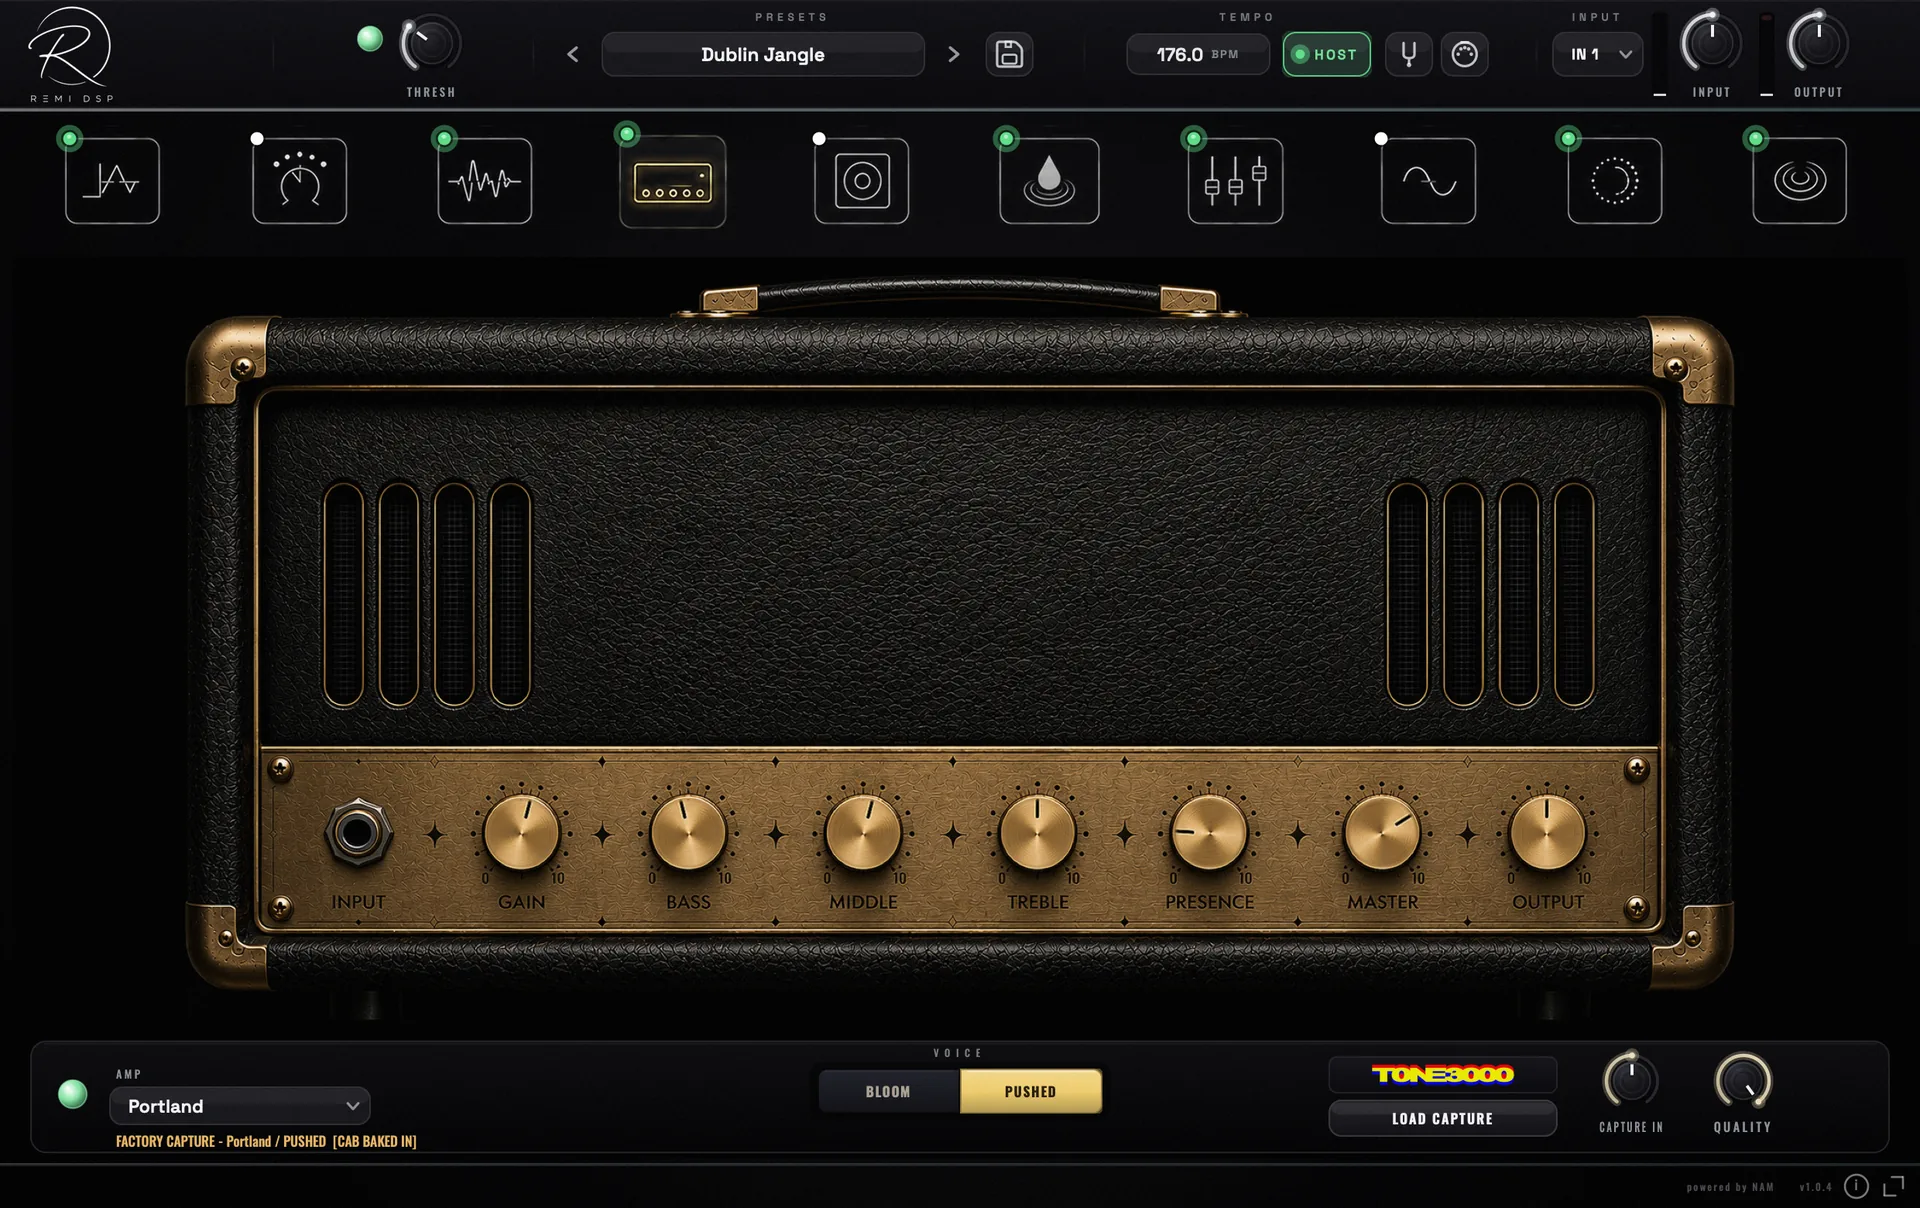
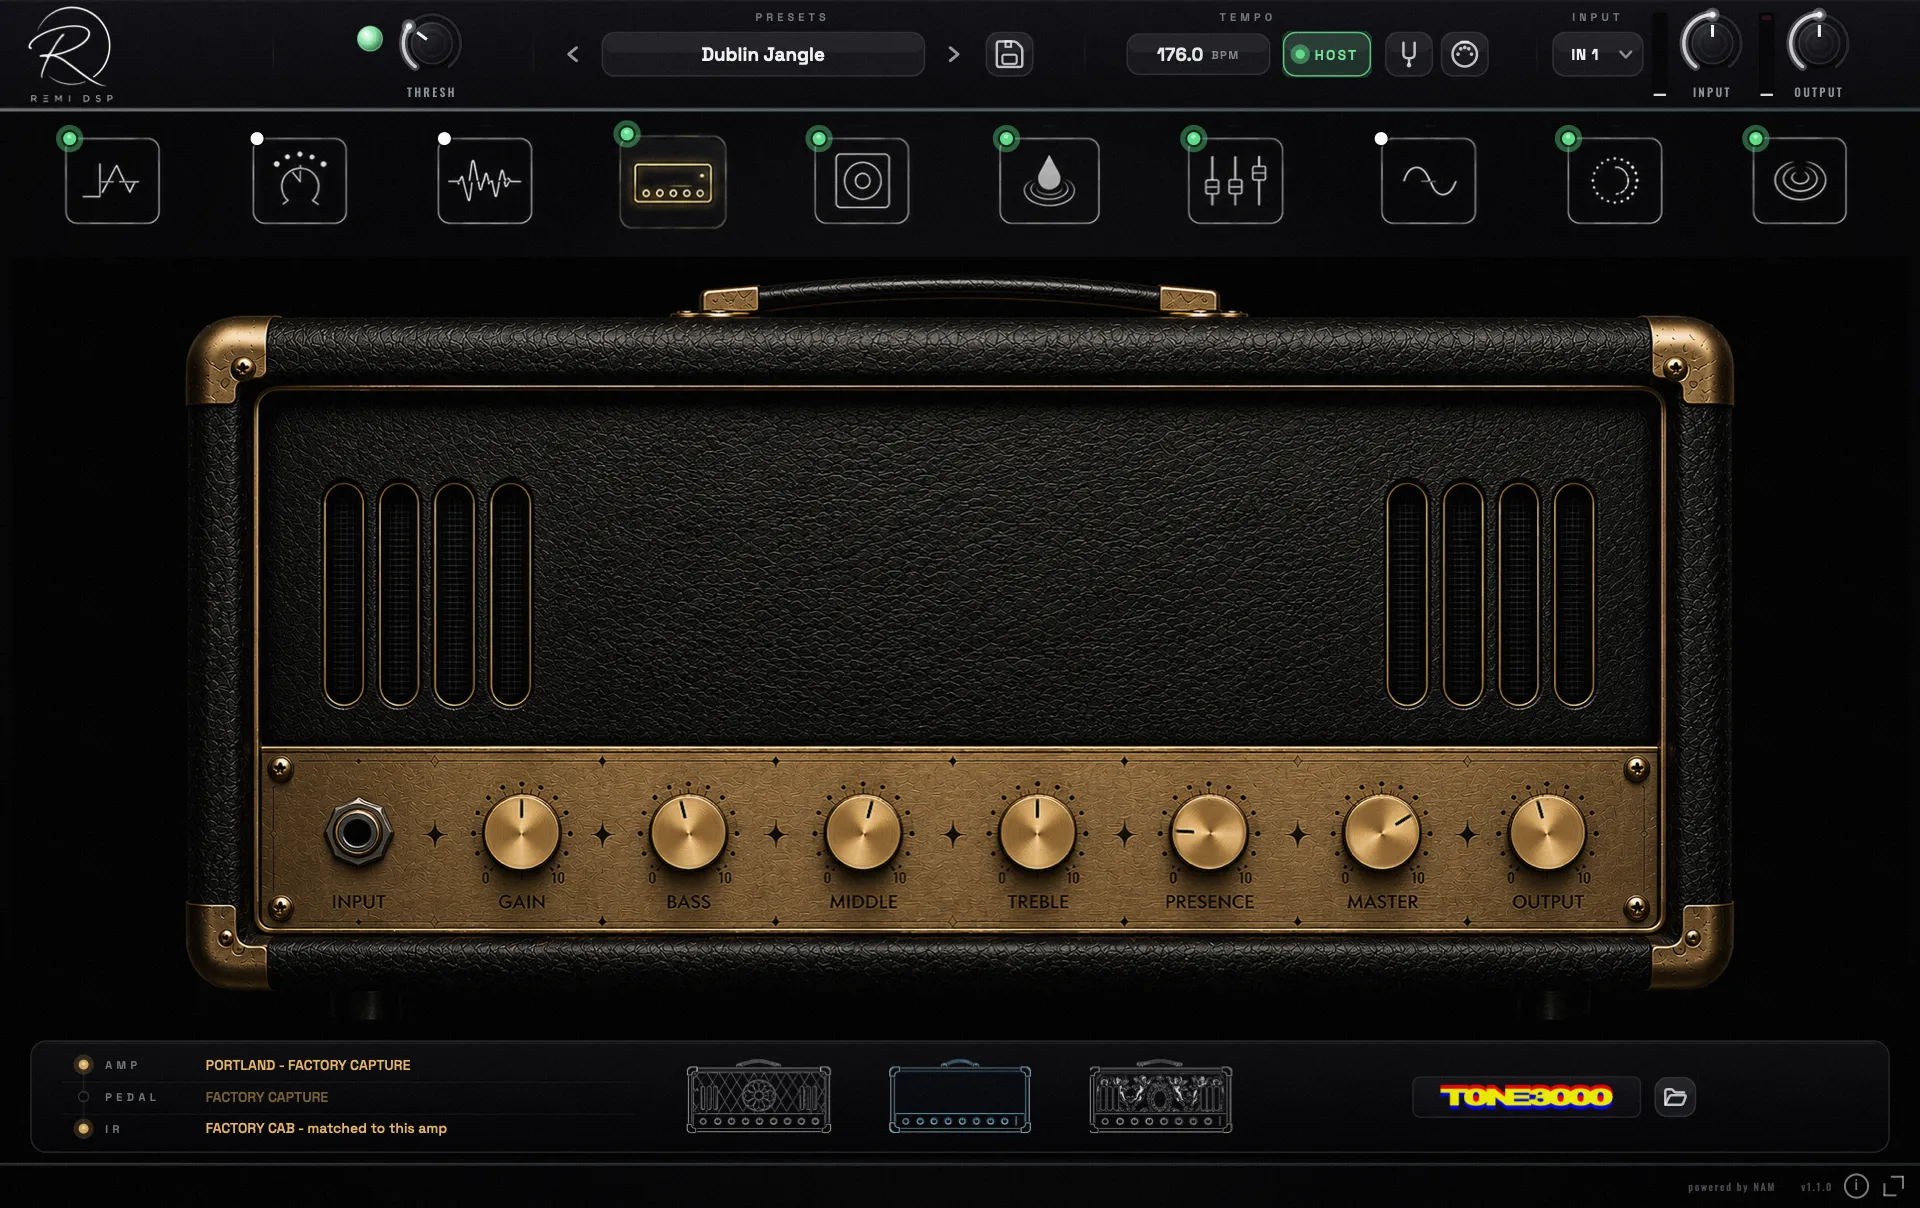
Fresh 1.1.0 window shots; web-rig entry points hidden
- amp-hero / amp-window-portland / captures-tone3000 / studio re-rendered
  from the shipping 1.1.0 build via ShotTest: new single-capture drawer
  (AMP / PEDAL / IR readout), v1.1.0 footer, live TONE3000 trending
- The web rig is unpublished from the page: the nav's Try It Live, the
  whole #live encore band and the footer's /play + #live links are hidden
  (hidden + inline display:none) — markup kept intact for an easy unhide
- dist reassembled

diff --git a/dist/index.html b/dist/index.html
@@ -147,7 +147,8 @@
     <a href="#board" data-scramble>Pedalboard</a>
     <a href="#studio" data-scramble>Studio</a>
     <a href="#free" data-scramble>Free</a>
-    <a href="#live" data-scramble>Try&nbsp;It&nbsp;Live</a>
+    <!-- web rig entry hidden for now (1.1.0) — markup kept, unhide by dropping hidden/style -->
+    <a href="#live" data-scramble hidden style="display:none">Try&nbsp;It&nbsp;Live</a>
   </nav>
   <a href="#download" class="btn btn--amber nav__cta" data-magnetic><span>Download</span></a>
 </header>
@@ -730,7 +731,9 @@
      without installing — the same rig runs live at /play, no guitar, no
      mic, no account. (It replaced the download section's "nothing to
      install?" aside — one closing mention, not two.) -->
-<section class="live" id="live" data-bg="#e9f3f8">
+<!-- Whole band hidden for now (1.1.0) — the web rig is unpublished from the
+     page; markup kept intact, unhide by dropping hidden/style below. -->
+<section class="live" id="live" data-bg="#e9f3f8" hidden style="display:none">
   <header class="live__bar" data-reveal>
     <span class="badge mono">LIVE&nbsp;NOW</span>
     <p class="kicker">The Live Rig</p>
@@ -770,9 +773,9 @@
     <p class="footer__tag">Maine — the all-in-one guitar rig.</p>
   </div>
   <div class="footer__cols">
-    <div><h4>Maine</h4><a href="#live">Play live</a><a href="#captures">Captures</a><a href="#plugin">The plugin</a><a href="#amps">Amps</a><a href="#board">Pedalboard</a><a href="#studio">Studio strip</a></div>
-    <div><h4>Download</h4><a href="https://github.com/frankAwesome/remi-amps-downloads/releases/latest/download/REMI-Amps-macOS.pkg" data-placement="footer">Maine (macOS)</a><a href="https://github.com/frankAwesome/remi-amps-downloads/releases/latest/download/REMI-Amps-Windows-Setup.exe" data-placement="footer">Maine (Windows)</a><a href="/play/" data-placement="footer">Maine Live (browser)</a></div>
-    <div><h4>Formats</h4><a href="#download">macOS</a><a href="#download">Windows</a><a href="#download">VST3, AU &amp; AAX</a><a href="#download">Standalone</a><a href="#live">Browser — live</a></div>
+    <div><h4>Maine</h4><a href="#live" hidden style="display:none">Play live</a><a href="#captures">Captures</a><a href="#plugin">The plugin</a><a href="#amps">Amps</a><a href="#board">Pedalboard</a><a href="#studio">Studio strip</a></div>
+    <div><h4>Download</h4><a href="https://github.com/frankAwesome/remi-amps-downloads/releases/latest/download/REMI-Amps-macOS.pkg" data-placement="footer">Maine (macOS)</a><a href="https://github.com/frankAwesome/remi-amps-downloads/releases/latest/download/REMI-Amps-Windows-Setup.exe" data-placement="footer">Maine (Windows)</a><a href="/play/" data-placement="footer" hidden style="display:none">Maine Live (browser)</a></div>
+    <div><h4>Formats</h4><a href="#download">macOS</a><a href="#download">Windows</a><a href="#download">VST3, AU &amp; AAX</a><a href="#download">Standalone</a><a href="#live" hidden style="display:none">Browser — live</a></div>
   </div>
   <p class="footer__legal">
     © <span id="year">2026</span> REMI DSP. Built for players and producers.<br>

diff --git a/index.html b/index.html
@@ -147,7 +147,8 @@
     <a href="#board" data-scramble>Pedalboard</a>
     <a href="#studio" data-scramble>Studio</a>
     <a href="#free" data-scramble>Free</a>
-    <a href="#live" data-scramble>Try&nbsp;It&nbsp;Live</a>
+    <!-- web rig entry hidden for now (1.1.0) — markup kept, unhide by dropping hidden/style -->
+    <a href="#live" data-scramble hidden style="display:none">Try&nbsp;It&nbsp;Live</a>
   </nav>
   <a href="#download" class="btn btn--amber nav__cta" data-magnetic><span>Download</span></a>
 </header>
@@ -730,7 +731,9 @@
      without installing — the same rig runs live at /play, no guitar, no
      mic, no account. (It replaced the download section's "nothing to
      install?" aside — one closing mention, not two.) -->
-<section class="live" id="live" data-bg="#e9f3f8">
+<!-- Whole band hidden for now (1.1.0) — the web rig is unpublished from the
+     page; markup kept intact, unhide by dropping hidden/style below. -->
+<section class="live" id="live" data-bg="#e9f3f8" hidden style="display:none">
   <header class="live__bar" data-reveal>
     <span class="badge mono">LIVE&nbsp;NOW</span>
     <p class="kicker">The Live Rig</p>
@@ -770,9 +773,9 @@
     <p class="footer__tag">Maine — the all-in-one guitar rig.</p>
   </div>
   <div class="footer__cols">
-    <div><h4>Maine</h4><a href="#live">Play live</a><a href="#captures">Captures</a><a href="#plugin">The plugin</a><a href="#amps">Amps</a><a href="#board">Pedalboard</a><a href="#studio">Studio strip</a></div>
-    <div><h4>Download</h4><a href="https://github.com/frankAwesome/remi-amps-downloads/releases/latest/download/REMI-Amps-macOS.pkg" data-placement="footer">Maine (macOS)</a><a href="https://github.com/frankAwesome/remi-amps-downloads/releases/latest/download/REMI-Amps-Windows-Setup.exe" data-placement="footer">Maine (Windows)</a><a href="/play/" data-placement="footer">Maine Live (browser)</a></div>
-    <div><h4>Formats</h4><a href="#download">macOS</a><a href="#download">Windows</a><a href="#download">VST3, AU &amp; AAX</a><a href="#download">Standalone</a><a href="#live">Browser — live</a></div>
+    <div><h4>Maine</h4><a href="#live" hidden style="display:none">Play live</a><a href="#captures">Captures</a><a href="#plugin">The plugin</a><a href="#amps">Amps</a><a href="#board">Pedalboard</a><a href="#studio">Studio strip</a></div>
+    <div><h4>Download</h4><a href="https://github.com/frankAwesome/remi-amps-downloads/releases/latest/download/REMI-Amps-macOS.pkg" data-placement="footer">Maine (macOS)</a><a href="https://github.com/frankAwesome/remi-amps-downloads/releases/latest/download/REMI-Amps-Windows-Setup.exe" data-placement="footer">Maine (Windows)</a><a href="/play/" data-placement="footer" hidden style="display:none">Maine Live (browser)</a></div>
+    <div><h4>Formats</h4><a href="#download">macOS</a><a href="#download">Windows</a><a href="#download">VST3, AU &amp; AAX</a><a href="#download">Standalone</a><a href="#live" hidden style="display:none">Browser — live</a></div>
   </div>
   <p class="footer__legal">
     © <span id="year">2026</span> REMI DSP. Built for players and producers.<br>
